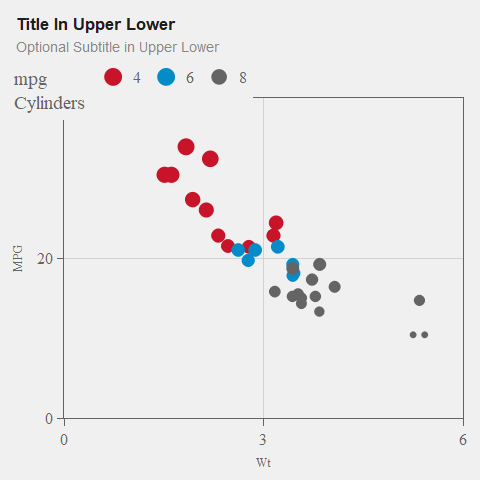
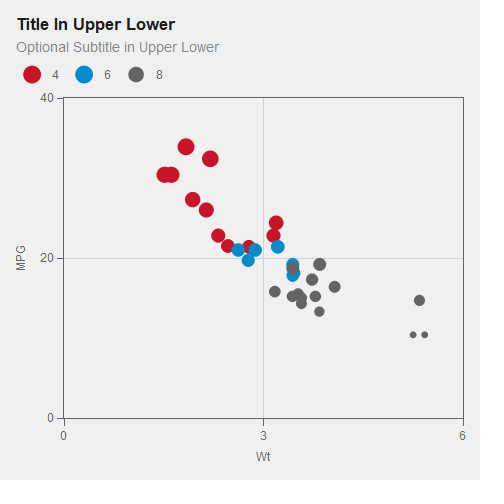
minor edits to README

diff --git a/img/Title in Upper Lower.html b/img/Title in Upper Lower.html
@@ -15,9 +15,9 @@
 </head>
 <body>
 <div id="htmlwidget_container">
-  <div id="htmlwidget-11f1cb8527ba19fe94ee" style="width:480px;height:480px;" class="plotly html-widget "></div>
+  <div id="htmlwidget-64ae7b8881aada41685a" style="width:480px;height:480px;" class="plotly html-widget "></div>
 </div>
-<script type="application/json" data-for="htmlwidget-11f1cb8527ba19fe94ee">{"x":{"data":[{"x":[2.32,3.19,3.15,2.2,1.615,1.835,2.465,1.935,2.14,1.513,2.78],"y":[22.8,24.4,22.8,32.4,30.4,33.9,21.5,27.3,26,30.4,21.4],"text":["wt: 2.320<br />mpg: 22.8<br />Cylinders: 4<br />mpg: 22.8","wt: 3.190<br />mpg: 24.4<br />Cylinders: 4<br />mpg: 24.4","wt: 3.150<br />mpg: 22.8<br />Cylinders: 4<br />mpg: 22.8","wt: 2.200<br />mpg: 32.4<br />Cylinders: 4<br />mpg: 32.4","wt: 1.615<br />mpg: 30.4<br />Cylinders: 4<br />mpg: 30.4","wt: 1.835<br />mpg: 33.9<br />Cylinders: 4<br />mpg: 33.9","wt: 2.465<br />mpg: 21.5<br />Cylinders: 4<br />mpg: 21.5","wt: 1.935<br />mpg: 27.3<br />Cylinders: 4<br />mpg: 27.3","wt: 2.140<br />mpg: 26.0<br />Cylinders: 4<br />mpg: 26.0","wt: 1.513<br />mpg: 30.4<br />Cylinders: 4<br />mpg: 30.4","wt: 2.780<br />mpg: 21.4<br />Cylinders: 4<br />mpg: 21.4"],"type":"scatter","mode":"markers","marker":{"autocolorscale":false,"color":"rgba(200,20,40,1)","opacity":1,"size":[18.5408776003141,19.2278926864321,18.5408776003141,22.1867171330085,21.5059836174446,22.6771653543307,17.9492828386117,20.3796131522944,19.8766488506996,21.5059836174446,17.9023741217497],"symbol":"circle","line":{"width":1.88976377952756,"color":"rgba(200,20,40,1)"},"sizeref":1.5},"hoveron":"points","name":"4","legendgroup":"4","showlegend":true,"xaxis":"x","yaxis":"y","hoverinfo":"text","frame":null},{"x":[2.62,2.875,3.215,3.46,3.44,3.44,2.77],"y":[21,21,21.4,18.1,19.2,17.8,19.7],"text":["wt: 2.620<br />mpg: 21.0<br />Cylinders: 6<br />mpg: 21.0","wt: 2.875<br />mpg: 21.0<br />Cylinders: 6<br />mpg: 21.0","wt: 3.215<br />mpg: 21.4<br />Cylinders: 6<br />mpg: 21.4","wt: 3.460<br />mpg: 18.1<br />Cylinders: 6<br />mpg: 18.1","wt: 3.440<br />mpg: 19.2<br />Cylinders: 6<br />mpg: 19.2","wt: 3.440<br />mpg: 17.8<br />Cylinders: 6<br />mpg: 17.8","wt: 2.770<br />mpg: 19.7<br />Cylinders: 6<br />mpg: 19.7"],"type":"scatter","mode":"markers","marker":{"autocolorscale":false,"color":"rgba(5,140,200,1)","opacity":1,"size":[17.7125723274194,17.7125723274194,17.9023741217497,16.2128966701456,16.8104008801515,16.0426405269602,17.0695923675498],"symbol":"circle","line":{"width":1.88976377952756,"color":"rgba(5,140,200,1)"},"sizeref":1.5},"hoveron":"points","name":"6","legendgroup":"6","showlegend":true,"xaxis":"x","yaxis":"y","hoverinfo":"text","frame":null},{"x":[3.44,3.57,4.07,3.73,3.78,5.25,5.424,5.345,3.52,3.435,3.84,3.845,3.17,3.57],"y":[18.7,14.3,16.4,17.3,15.2,10.4,10.4,14.7,15.5,15.2,13.3,19.2,15.8,15],"text":["wt: 3.440<br />mpg: 18.7<br />Cylinders: 8<br />mpg: 18.7","wt: 3.570<br />mpg: 14.3<br />Cylinders: 8<br />mpg: 14.3","wt: 4.070<br />mpg: 16.4<br />Cylinders: 8<br />mpg: 16.4","wt: 3.730<br />mpg: 17.3<br />Cylinders: 8<br />mpg: 17.3","wt: 3.780<br />mpg: 15.2<br />Cylinders: 8<br />mpg: 15.2","wt: 5.250<br />mpg: 10.4<br />Cylinders: 8<br />mpg: 10.4","wt: 5.424<br />mpg: 10.4<br />Cylinders: 8<br />mpg: 10.4","wt: 5.345<br />mpg: 14.7<br />Cylinders: 8<br />mpg: 14.7","wt: 3.520<br />mpg: 15.5<br />Cylinders: 8<br />mpg: 15.5","wt: 3.435<br />mpg: 15.2<br />Cylinders: 8<br />mpg: 15.2","wt: 3.840<br />mpg: 13.3<br />Cylinders: 8<br />mpg: 13.3","wt: 3.845<br />mpg: 19.2<br />Cylinders: 8<br />mpg: 19.2","wt: 3.170<br />mpg: 15.8<br />Cylinders: 8<br />mpg: 15.8","wt: 3.570<br />mpg: 15.0<br />Cylinders: 8<br />mpg: 15.0"],"type":"scatter","mode":"markers","marker":{"autocolorscale":false,"color":"rgba(100,100,100,1)","opacity":1,"size":[16.5437353041102,13.7178519844049,15.1981024651073,15.751020756778,14.3916267786002,7.55905511811024,7.55905511811024,14.0259798224494,14.6019087808107,14.3916267786002,12.8698872668421,16.8104008801515,14.8060917492235,14.2477670531598],"symbol":"circle","line":{"width":1.88976377952756,"color":"rgba(100,100,100,1)"},"sizeref":1.5},"hoveron":"points","name":"8","legendgroup":"8","showlegend":true,"xaxis":"x","yaxis":"y","hoverinfo":"text","frame":null}],"layout":{"margin":{"t":98,"r":16.6666666666667,"b":62,"l":62,"pad":0},"plot_bgcolor":"#F0F0F0","paper_bgcolor":"#F0F0F0","font":{"color":"#646464","family":"Arial","size":12},"title":{"text":"<b>Title In Upper Lower<\/b><br><span style=\"font-size: 14px; color:#878787\">Optional Subtitle in Upper Lower<\/span>","font":{"color":"#1E1E1E","family":"Arial","size":16.6666666666667},"x":0,"xref":"container","pad":{"t":30,"b":30,"l":16.6666666666667,"r":16.6666666666667},"xanchor":"left","y":1,"yanchor":"top","yref":"container"},"xaxis":{"domain":[0,1],"automargin":true,"type":"linear","autorange":false,"range":[0,6],"tickmode":"array","ticktext":["0","3","6"],"tickvals":[0,3,6],"categoryorder":"array","categoryarray":["0","3","6"],"nticks":3,"ticks":"outside","tickcolor":"#646464","ticklen":6.66666666666667,"tickwidth":0.666666666666667,"showticklabels":true,"tickfont":{"color":"rgba(100,100,100,1)","family":"sans","size":15.9402241594022},"tickangle":-0,"showline":true,"linecolor":"#646464","linewidth":0.666666666666667,"showgrid":true,"gridcolor":"#D2D2D2","gridwidth":0.666666666666667,"zeroline":false,"anchor":"y","title":{"text":"Wt","font":{"color":"rgba(100,100,100,1)","family":"sans","size":12},"standoff":10},"hoverformat":".2f","tick0":0,"mirror":true,"ticklabelstep":1},"yaxis":{"domain":[0,1],"automargin":true,"type":"linear","autorange":false,"range":[0,40],"tickmode":"array","ticktext":["0","20","40"],"tickvals":[0,20,40],"categoryorder":"array","categoryarray":["0","20","40"],"nticks":null,"ticks":"outside","tickcolor":"#646464","ticklen":6.66666666666667,"tickwidth":0.666666666666667,"showticklabels":true,"tickfont":{"color":"rgba(100,100,100,1)","family":"sans","size":15.9402241594022},"tickangle":-0,"showline":true,"linecolor":"#646464","linewidth":0.666666666666667,"showgrid":true,"gridcolor":"#D2D2D2","gridwidth":0.666666666666667,"zeroline":false,"anchor":"x","title":{"text":"MPG","font":{"color":"rgba(100,100,100,1)","family":"sans","size":12},"standoff":6.66666666666667},"hoverformat":".2f","tick0":0,"mirror":true,"ticklabelstep":1},"shapes":[{"type":"rect","fillcolor":null,"line":{"color":null,"width":0,"linetype":[]},"yref":"paper","xref":"paper","x0":0,"x1":1,"y0":0,"y1":1}],"showlegend":true,"legend":{"bgcolor":"rgba(240,240,240,1)","bordercolor":"transparent","borderwidth":0.440944881889764,"font":{"color":"rgba(100,100,100,1)","family":"sans","size":15.9402241594022},"title":{"text":"mpg<br />Cylinders","font":{"color":null,"family":null,"size":0}},"orientation":"h","itemclick":"toggle","itemdoubleclick":"toggleothers","x":-0.13,"xanchor":"left","y":1.12,"yanchor":"top"},"hovermode":"closest","width":480,"height":480,"barmode":"relative","autosize":true,"hoverlabel":{"bgcolor":"#F0F0F0"},"colorway":["#C81428","#058CC8","#646464","#E68C8C","#82B4D2"],"colorscale":["#D2D2D2","#058CC8"]},"config":{"doubleClick":"reset","modeBarButtonsToAdd":["hoverclosest","hovercompare"],"showSendToCloud":false},"source":"A","attrs":{"2d2424f94142":{"x":{},"y":{},"colour":{},"size":{},"type":"scatter"}},"cur_data":"2d2424f94142","visdat":{"2d2424f94142":["function (y) ","x"]},"highlight":{"on":"plotly_click","persistent":false,"dynamic":false,"selectize":false,"opacityDim":0.2,"selected":{"opacity":1},"debounce":0},"shinyEvents":["plotly_hover","plotly_click","plotly_selected","plotly_relayout","plotly_brushed","plotly_brushing","plotly_clickannotation","plotly_doubleclick","plotly_deselect","plotly_afterplot","plotly_sunburstclick"],"base_url":"https://plot.ly"},"evals":[],"jsHooks":[]}</script>
-<script type="application/htmlwidget-sizing" data-for="htmlwidget-11f1cb8527ba19fe94ee">{"viewer":{"width":480,"height":480,"padding":0,"fill":false},"browser":{"width":480,"height":480,"padding":0,"fill":false}}</script>
+<script type="application/json" data-for="htmlwidget-64ae7b8881aada41685a">{"x":{"data":[{"x":[2.32,3.19,3.15,2.2,1.615,1.835,2.465,1.935,2.14,1.513,2.78],"y":[22.8,24.4,22.8,32.4,30.4,33.9,21.5,27.3,26,30.4,21.4],"text":["wt: 2.320<br />mpg: 22.8<br />Cylinders: 4<br />mpg: 22.8","wt: 3.190<br />mpg: 24.4<br />Cylinders: 4<br />mpg: 24.4","wt: 3.150<br />mpg: 22.8<br />Cylinders: 4<br />mpg: 22.8","wt: 2.200<br />mpg: 32.4<br />Cylinders: 4<br />mpg: 32.4","wt: 1.615<br />mpg: 30.4<br />Cylinders: 4<br />mpg: 30.4","wt: 1.835<br />mpg: 33.9<br />Cylinders: 4<br />mpg: 33.9","wt: 2.465<br />mpg: 21.5<br />Cylinders: 4<br />mpg: 21.5","wt: 1.935<br />mpg: 27.3<br />Cylinders: 4<br />mpg: 27.3","wt: 2.140<br />mpg: 26.0<br />Cylinders: 4<br />mpg: 26.0","wt: 1.513<br />mpg: 30.4<br />Cylinders: 4<br />mpg: 30.4","wt: 2.780<br />mpg: 21.4<br />Cylinders: 4<br />mpg: 21.4"],"type":"scatter","mode":"markers","marker":{"autocolorscale":false,"color":"rgba(200,20,40,1)","opacity":1,"size":[18.5408776003141,19.2278926864321,18.5408776003141,22.1867171330085,21.5059836174446,22.6771653543307,17.9492828386117,20.3796131522944,19.8766488506996,21.5059836174446,17.9023741217497],"symbol":"circle","line":{"width":1.88976377952756,"color":"rgba(200,20,40,1)"},"sizeref":1.5},"hoveron":"points","name":"4","legendgroup":"4","showlegend":true,"xaxis":"x","yaxis":"y","hoverinfo":"text","frame":null},{"x":[2.62,2.875,3.215,3.46,3.44,3.44,2.77],"y":[21,21,21.4,18.1,19.2,17.8,19.7],"text":["wt: 2.620<br />mpg: 21.0<br />Cylinders: 6<br />mpg: 21.0","wt: 2.875<br />mpg: 21.0<br />Cylinders: 6<br />mpg: 21.0","wt: 3.215<br />mpg: 21.4<br />Cylinders: 6<br />mpg: 21.4","wt: 3.460<br />mpg: 18.1<br />Cylinders: 6<br />mpg: 18.1","wt: 3.440<br />mpg: 19.2<br />Cylinders: 6<br />mpg: 19.2","wt: 3.440<br />mpg: 17.8<br />Cylinders: 6<br />mpg: 17.8","wt: 2.770<br />mpg: 19.7<br />Cylinders: 6<br />mpg: 19.7"],"type":"scatter","mode":"markers","marker":{"autocolorscale":false,"color":"rgba(5,140,200,1)","opacity":1,"size":[17.7125723274194,17.7125723274194,17.9023741217497,16.2128966701456,16.8104008801515,16.0426405269602,17.0695923675498],"symbol":"circle","line":{"width":1.88976377952756,"color":"rgba(5,140,200,1)"},"sizeref":1.5},"hoveron":"points","name":"6","legendgroup":"6","showlegend":true,"xaxis":"x","yaxis":"y","hoverinfo":"text","frame":null},{"x":[3.44,3.57,4.07,3.73,3.78,5.25,5.424,5.345,3.52,3.435,3.84,3.845,3.17,3.57],"y":[18.7,14.3,16.4,17.3,15.2,10.4,10.4,14.7,15.5,15.2,13.3,19.2,15.8,15],"text":["wt: 3.440<br />mpg: 18.7<br />Cylinders: 8<br />mpg: 18.7","wt: 3.570<br />mpg: 14.3<br />Cylinders: 8<br />mpg: 14.3","wt: 4.070<br />mpg: 16.4<br />Cylinders: 8<br />mpg: 16.4","wt: 3.730<br />mpg: 17.3<br />Cylinders: 8<br />mpg: 17.3","wt: 3.780<br />mpg: 15.2<br />Cylinders: 8<br />mpg: 15.2","wt: 5.250<br />mpg: 10.4<br />Cylinders: 8<br />mpg: 10.4","wt: 5.424<br />mpg: 10.4<br />Cylinders: 8<br />mpg: 10.4","wt: 5.345<br />mpg: 14.7<br />Cylinders: 8<br />mpg: 14.7","wt: 3.520<br />mpg: 15.5<br />Cylinders: 8<br />mpg: 15.5","wt: 3.435<br />mpg: 15.2<br />Cylinders: 8<br />mpg: 15.2","wt: 3.840<br />mpg: 13.3<br />Cylinders: 8<br />mpg: 13.3","wt: 3.845<br />mpg: 19.2<br />Cylinders: 8<br />mpg: 19.2","wt: 3.170<br />mpg: 15.8<br />Cylinders: 8<br />mpg: 15.8","wt: 3.570<br />mpg: 15.0<br />Cylinders: 8<br />mpg: 15.0"],"type":"scatter","mode":"markers","marker":{"autocolorscale":false,"color":"rgba(100,100,100,1)","opacity":1,"size":[16.5437353041102,13.7178519844049,15.1981024651073,15.751020756778,14.3916267786002,7.55905511811024,7.55905511811024,14.0259798224494,14.6019087808107,14.3916267786002,12.8698872668421,16.8104008801515,14.8060917492235,14.2477670531598],"symbol":"circle","line":{"width":1.88976377952756,"color":"rgba(100,100,100,1)"},"sizeref":1.5},"hoveron":"points","name":"8","legendgroup":"8","showlegend":true,"xaxis":"x","yaxis":"y","hoverinfo":"text","frame":null}],"layout":{"margin":{"t":98,"r":16.6666666666667,"b":62,"l":62,"pad":0},"plot_bgcolor":"#F0F0F0","paper_bgcolor":"#F0F0F0","font":{"color":"#646464","family":"Arial","size":12},"title":{"text":"<b>Title In Upper Lower<\/b><br><span style=\"font-size: 14px; color:#878787\">Optional Subtitle in Upper Lower<\/span>","font":{"color":"#1E1E1E","family":"Arial","size":16.6666666666667},"x":0,"xref":"container","pad":{"t":30,"b":30,"l":16.6666666666667,"r":16.6666666666667},"xanchor":"left","y":1,"yanchor":"top","yref":"container"},"xaxis":{"domain":[0,1],"automargin":true,"type":"linear","autorange":false,"range":[0,6],"tickmode":"array","ticktext":["0","3","6"],"tickvals":[0,3,6],"categoryorder":"array","categoryarray":["0","3","6"],"nticks":3,"ticks":"outside","tickcolor":"#646464","ticklen":6.66666666666667,"tickwidth":0.666666666666667,"showticklabels":true,"tickfont":{"color":"#646464","family":"Arial","size":12},"tickangle":-0,"showline":true,"linecolor":"#646464","linewidth":0.666666666666667,"showgrid":true,"gridcolor":"#D2D2D2","gridwidth":0.666666666666667,"zeroline":false,"anchor":"y","title":{"text":"Wt","font":{"color":"#646464","family":"Arial","size":12},"standoff":10},"hoverformat":".2f","tick0":0,"mirror":true,"ticklabelstep":1},"yaxis":{"domain":[0,1],"automargin":true,"type":"linear","autorange":false,"range":[0,40],"tickmode":"array","ticktext":["0","20","40"],"tickvals":[0,20,40],"categoryorder":"array","categoryarray":["0","20","40"],"nticks":null,"ticks":"outside","tickcolor":"#646464","ticklen":6.66666666666667,"tickwidth":0.666666666666667,"showticklabels":true,"tickfont":{"color":"#646464","family":"Arial","size":12},"tickangle":-0,"showline":true,"linecolor":"#646464","linewidth":0.666666666666667,"showgrid":true,"gridcolor":"#D2D2D2","gridwidth":0.666666666666667,"zeroline":false,"anchor":"x","title":{"text":"MPG","font":{"color":"#646464","family":"Arial","size":12},"standoff":6.66666666666667},"hoverformat":".2f","tick0":0,"mirror":true,"ticklabelstep":1},"shapes":[{"type":"rect","fillcolor":null,"line":{"color":null,"width":0,"linetype":[]},"yref":"paper","xref":"paper","x0":0,"x1":1,"y0":0,"y1":1}],"showlegend":true,"legend":{"bgcolor":"rgba(240,240,240,1)","bordercolor":"transparent","borderwidth":0.440944881889764,"font":{"color":"#646464","family":"Arial","size":12},"title":{"text":"","font":{"color":"#646464","family":"Arial","size":12}},"orientation":"h","itemclick":"toggle","itemdoubleclick":"toggleothers","x":-0.13,"xanchor":"left","y":1.12,"yanchor":"top"},"hovermode":"closest","width":480,"height":480,"barmode":"relative","autosize":true,"hoverlabel":{"bgcolor":"#F0F0F0"},"colorway":["#C81428","#058CC8","#646464","#E68C8C","#82B4D2"],"colorscale":["#D2D2D2","#058CC8"]},"config":{"doubleClick":"reset","modeBarButtonsToAdd":["hoverclosest","hovercompare"],"showSendToCloud":false},"source":"A","attrs":{"b8470856b71":{"x":{},"y":{},"colour":{},"size":{},"type":"scatter"}},"cur_data":"b8470856b71","visdat":{"b8470856b71":["function (y) ","x"]},"highlight":{"on":"plotly_click","persistent":false,"dynamic":false,"selectize":false,"opacityDim":0.2,"selected":{"opacity":1},"debounce":0},"shinyEvents":["plotly_hover","plotly_click","plotly_selected","plotly_relayout","plotly_brushed","plotly_brushing","plotly_clickannotation","plotly_doubleclick","plotly_deselect","plotly_afterplot","plotly_sunburstclick"],"base_url":"https://plot.ly"},"evals":[],"jsHooks":[]}</script>
+<script type="application/htmlwidget-sizing" data-for="htmlwidget-64ae7b8881aada41685a">{"viewer":{"width":480,"height":480,"padding":0,"fill":false},"browser":{"width":480,"height":480,"padding":0,"fill":false}}</script>
 </body>
 </html>

diff --git a/README.md b/README.md
@@ -722,8 +722,7 @@ that use `ggplotly` or `plot_ly`. This is under development. Only using
 added “soon”. Example using `plot_ly`:
 
 ``` r
-library(plotly)
-library(xml2)
+library(htmlwidgets)
 dg = mtcars %>% 
   select(wt, mpg, cyl) %>%
   mutate(cyl = factor(cyl)) %>%
